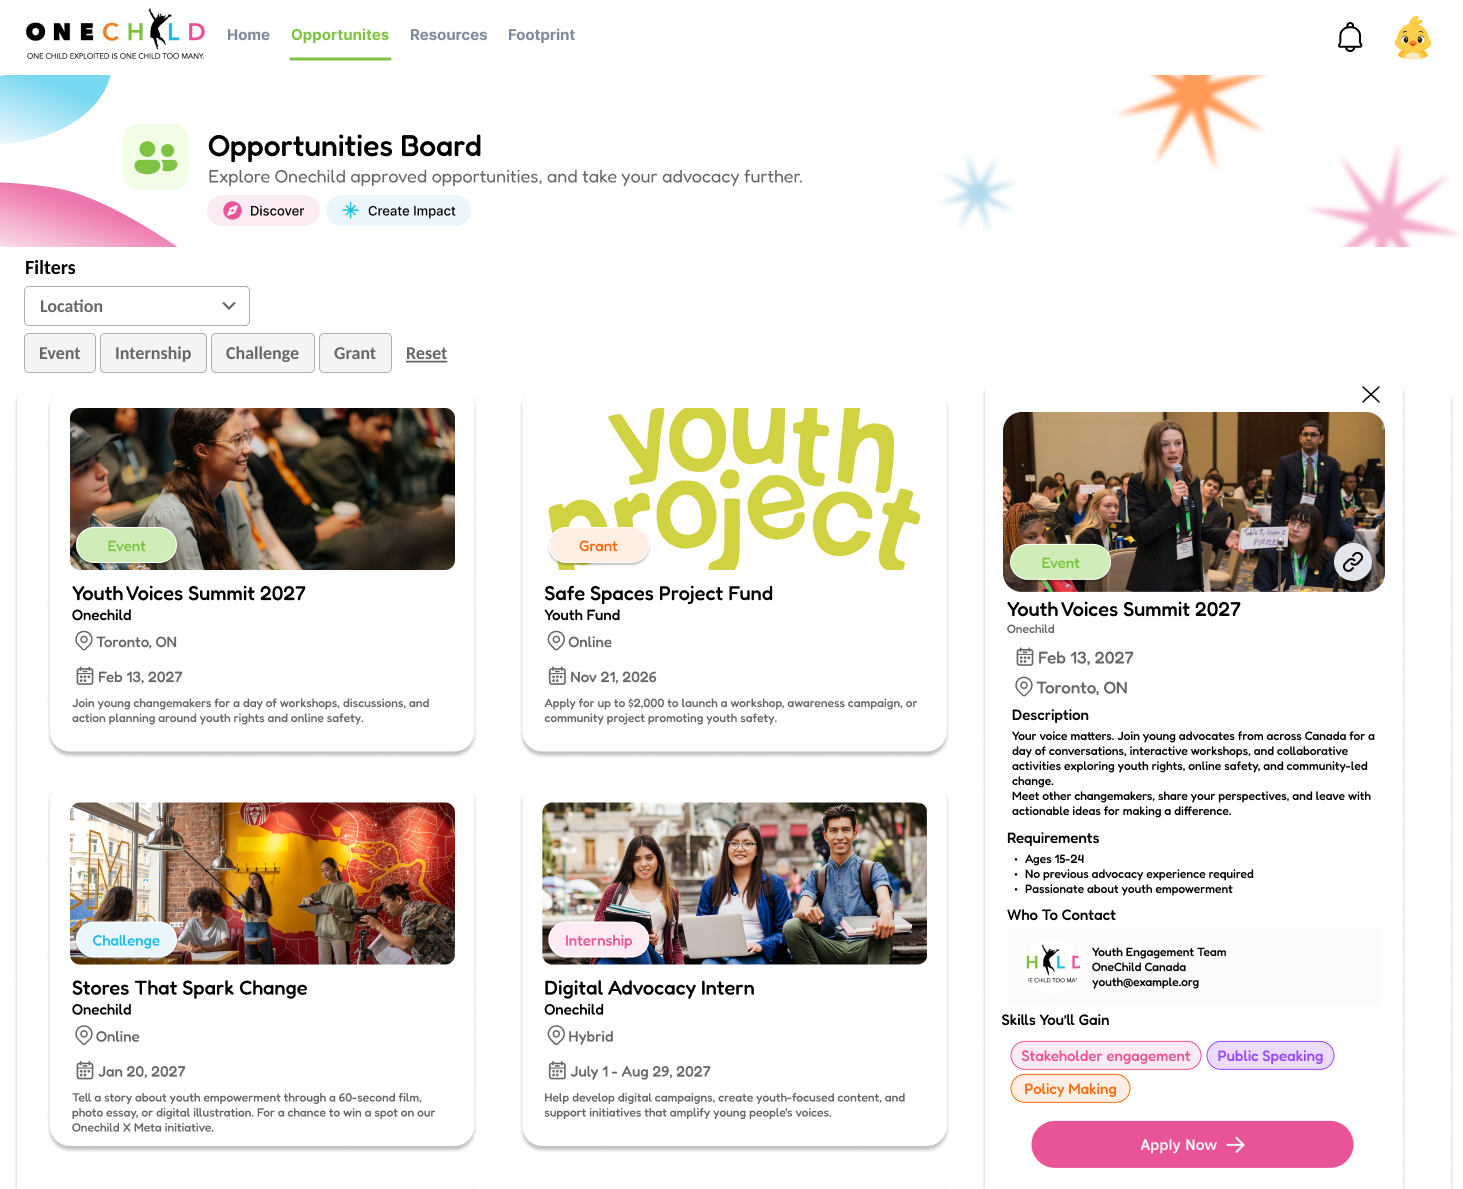
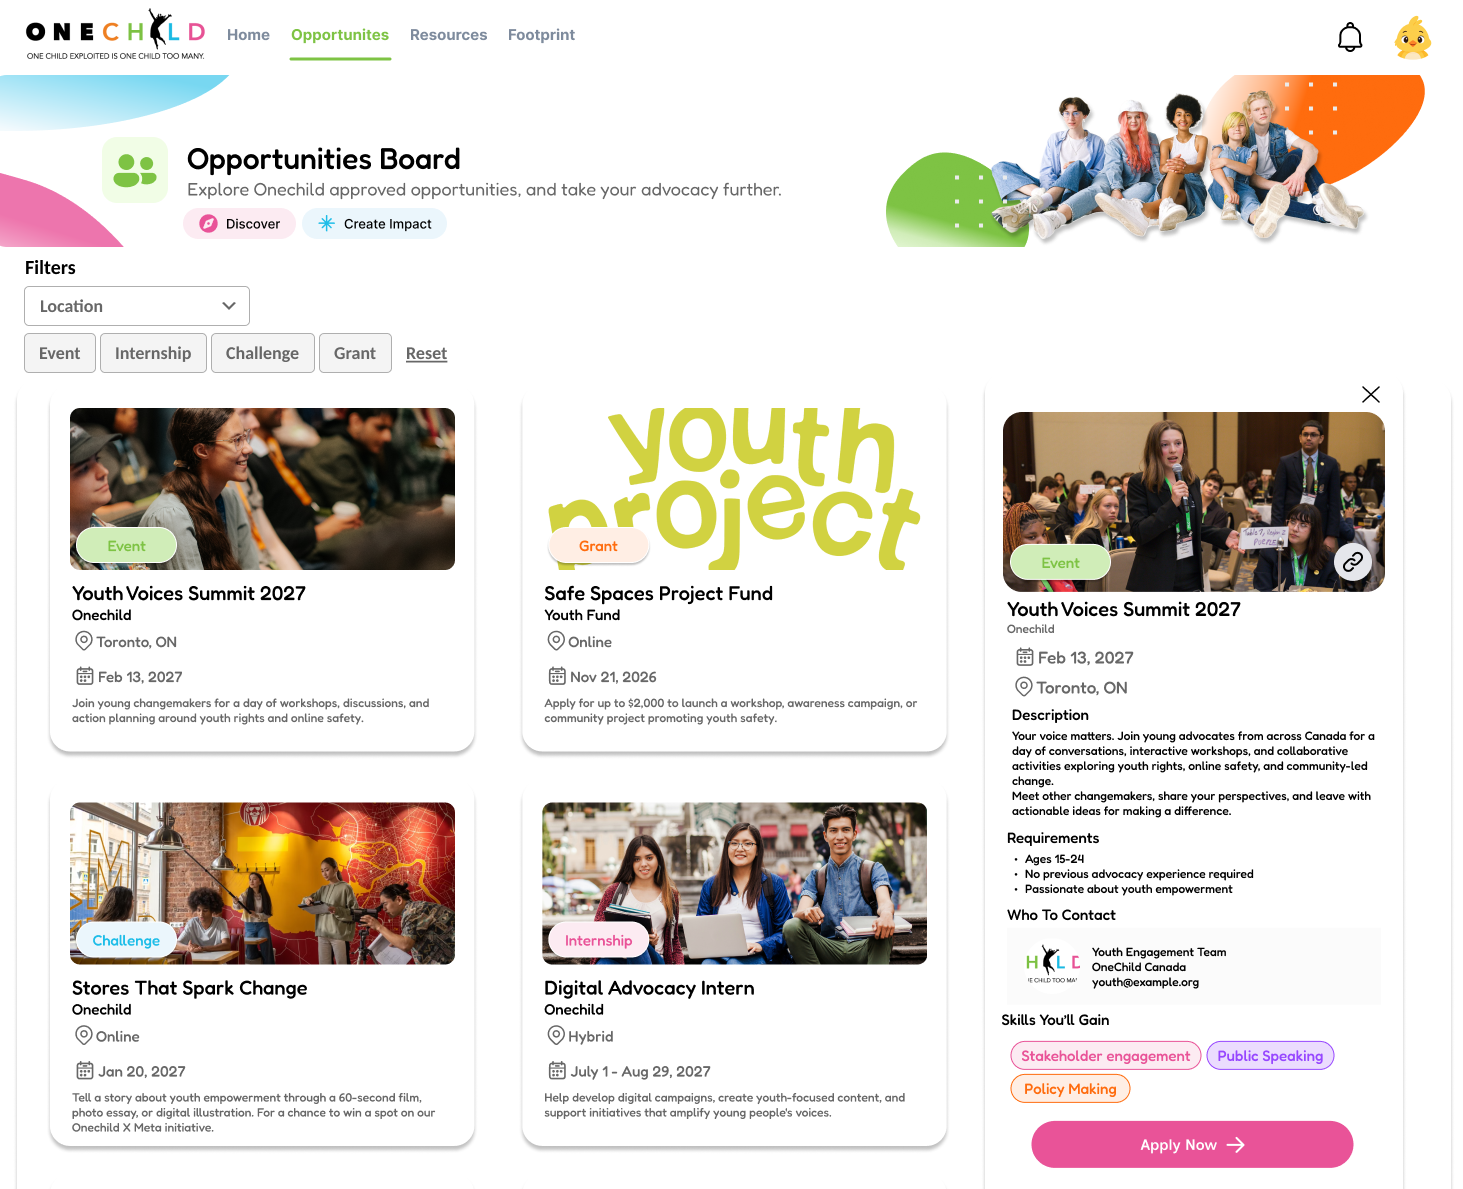
Add hero photo with caption sticker; new OneChild mockups and category
- Hero: Irene's photo with an "I love hairless cats!" caption sticker
  (same pill style as the skill pills, pops in after the hero text).
- OneChild Advocacy Hub: square and wide browser mockups of both prototypes
  for the card and case-study header, updated Opportunities Board screenshot,
  category "Product Engineering".

Changed region(s): [[0.0, 0.0622, 0.5537, 0.2178], [0.5844, 0.0622, 0.9843, 0.2178]]

diff --git a/src/data/projects.ts b/src/data/projects.ts
@@ -12,18 +12,29 @@ import { bullets, h2, h3, image, metrics, p, quote, table } from './caseStudyBlo
 
 /* ── OneChild ──────────────────────────────────────────────────────────── */
 
-const oneChildImac: ProjectImage = {
-  url: '/assets/projects/onechild-opportunities-board-1600.webp',
-  srcSet:
-    '/assets/projects/onechild-opportunities-board-800.webp 800w, /assets/projects/onechild-opportunities-board-1600.webp 1600w',
-  alt: 'The OneChild Opportunities Board shown on an iMac: a grid of youth events, grants and internships with one opened in a side panel.',
+/** Both prototypes in browser windows: square for the Past Work card, wide for the case-study header. */
+const mockupAlt =
+  'Two OneChild Advocacy Hub screens in browser windows: the Opportunities Board, a grid of youth events, grants and internships, and in front of it the Advocacy Footprint, with a profile, skills, past experiences and a goal planner.'
+
+const oneChildMockupSquare: ProjectImage = {
+  url: '/assets/projects/onechild-mockup-square-1600.webp',
+  srcSet: '/assets/projects/onechild-mockup-square-800.webp 800w, /assets/projects/onechild-mockup-square-1600.webp 1600w',
+  alt: mockupAlt,
   width: 1600,
-  height: 1089,
+  height: 1600,
+}
+
+const oneChildMockupWide: ProjectImage = {
+  url: '/assets/projects/onechild-mockup-wide-1200.webp',
+  srcSet: '/assets/projects/onechild-mockup-wide-1200.webp 1200w, /assets/projects/onechild-mockup-wide-2400.webp 2400w',
+  alt: mockupAlt,
+  width: 2400,
+  height: 1500,
 }
 
 const oneChildBoardScreen: ProjectImage = {
   url: '/assets/projects/onechild-opportunities-board-screen.png',
-  alt: 'The Opportunities Board: location and type filters (Event, Internship, Challenge, Grant), a grid of opportunity cards, and the Youth Voices Summit 2027 opened in a side panel with its description, requirements, contact and the skills you will gain.',
+  alt: 'The Opportunities Board: a header illustration of five young people sitting together, location and type filters (Event, Internship, Challenge, Grant), a grid of opportunity cards, and the Youth Voices Summit 2027 opened in a side panel with its description, requirements, contact and the skills you will gain.',
   width: 1463,
   height: 1189,
 }
@@ -61,15 +72,15 @@ const oneChild: Project = {
   title: 'OneChild Advocacy Hub',
   shortDescription:
     'Designed and built a youth advocacy platform that connects young people to opportunities, resources, and tools to document their advocacy journeys.',
-  category: 'Product Design',
+  category: 'Product Engineering',
   headline: '0→1',
   year: 2026,
   cardSize: 'medium',
   order: 1,
   featured: false,
   comingSoon: false,
-  thumbnail: oneChildImac,
-  heroImage: oneChildImac,
+  thumbnail: oneChildMockupSquare,
+  heroImage: oneChildMockupWide,
   role: 'Product Engineer',
   timeline: 'May – Aug 2026',
   tools: ['Figma', 'FigJam', 'Framer', 'Framer CMS', 'Supabase'],

diff --git a/src/components/hero/HeroPhoto.tsx b/src/components/hero/HeroPhoto.tsx
@@ -4,24 +4,39 @@ interface HeroPhotoProps {
   photo: ImageAsset
   /** Label on the grey placeholder while the photo has no `src`. */
   placeholderLabel: string
+  /** Optional sticker on the bottom-left corner, styled like the skill pills. */
+  caption?: string
   /** Controls the rendered width; the photo is always square. */
   className?: string
 }
 
 /**
- * Your photo beside the hero headline: a square, slightly tilted card (like the design).
- * Which photo → src/data/site.ts (hero.photo). Until it has a `src`, a grey placeholder shows.
+ * Your photo beside the hero headline: a square, slightly tilted card (like the design),
+ * with an optional little caption sticker tilted the other way.
+ * Which photo and caption → src/data/site.ts (hero.photo, hero.photoCaption). Until the photo has a `src`, a grey placeholder shows.
  */
-export default function HeroPhoto({ photo, placeholderLabel, className = '' }: HeroPhotoProps) {
+export default function HeroPhoto({ photo, placeholderLabel, caption, className = '' }: HeroPhotoProps) {
   return (
-    <div className={`aspect-square rotate-3 overflow-hidden rounded-photo bg-pill-hover ${className}`}>
-      {photo.src ? (
-        <img src={photo.src} alt={photo.alt} fetchPriority="high" className="size-full object-cover" />
-      ) : (
-        <span aria-hidden className="flex size-full items-center justify-center text-caption text-ink-muted">
-          {placeholderLabel}
-        </span>
+    <figure className={`relative ${className}`}>
+      <div className="aspect-square rotate-3 overflow-hidden rounded-photo bg-pill-hover">
+        {photo.src ? (
+          <img src={photo.src} alt={photo.alt} fetchPriority="high" className="size-full object-cover" />
+        ) : (
+          <span aria-hidden className="flex size-full items-center justify-center text-caption text-ink-muted">
+            {placeholderLabel}
+          </span>
+        )}
+      </div>
+
+      {caption && (
+        // Pops in after the hero text has finished animating (same pop as the skill pills).
+        <figcaption
+          className="absolute -bottom-4 -left-2 -rotate-6 animate-pop rounded-pill border-[1.5px] border-charcoal bg-canvas px-4 py-2 text-caption font-medium text-charcoal motion-reduce:animate-none"
+          style={{ animationDelay: '1100ms' }}
+        >
+          {caption}
+        </figcaption>
       )}
-    </div>
+    </figure>
   )
 }

diff --git a/src/components/sections/Hero.tsx b/src/components/sections/Hero.tsx
@@ -8,7 +8,7 @@ import { site } from '../../data/site'
  * Text, pills and photo → src/data/site.ts (hero).
  */
 export default function Hero() {
-  const { headline, lead, skills, outro, outroEmphasis, outroGraphic, photo, photoPlaceholder } = site.hero
+  const { headline, lead, skills, outro, outroEmphasis, outroGraphic, photo, photoCaption, photoPlaceholder } = site.hero
 
   return (
     <section id="home" className="mx-auto max-w-page px-6 pt-hero-top pb-8 md:px-12 md:pb-12 lg:px-20">
@@ -39,7 +39,12 @@ export default function Hero() {
           </p>
         </div>
 
-        <HeroPhoto photo={photo} placeholderLabel={photoPlaceholder} className="mx-auto w-full max-w-hero-photo lg:mr-0" />
+        <HeroPhoto
+          photo={photo}
+          placeholderLabel={photoPlaceholder}
+          caption={photoCaption}
+          className="mx-auto w-full max-w-hero-photo lg:mr-0"
+        />
       </div>
     </section>
   )

diff --git a/src/data/site.ts b/src/data/site.ts
@@ -79,9 +79,11 @@ export const site = {
      * (e.g. '/assets/hero/me.jpg'). While `src` is empty a grey placeholder shows instead.
      */
     photo: {
-      src: '',
-      alt: 'Portrait of Irene',
+      src: '/assets/hero/irene.webp',
+      alt: 'Irene sitting on a bench, smiling down at a Sphynx cat in a red-collared shirt on Irene’s lap, while a second Sphynx in a mint shirt watches from a small table.',
     } satisfies ImageAsset,
+    /** Little sticker on the photo's corner. */
+    photoCaption: 'I love hairless cats!',
     /** Shown on the grey placeholder until the photo is added. */
     photoPlaceholder: 'Your photo',
   },
